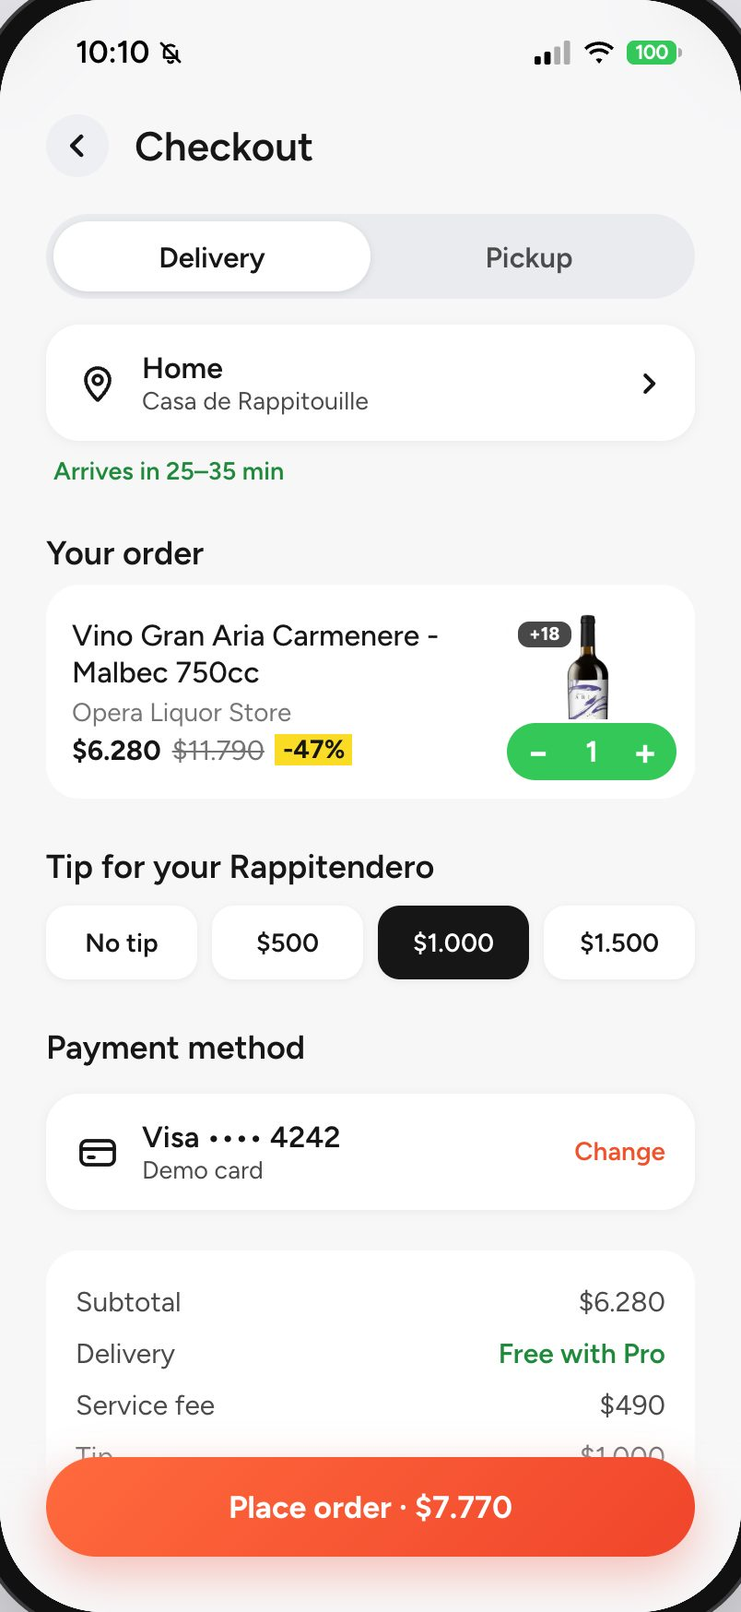
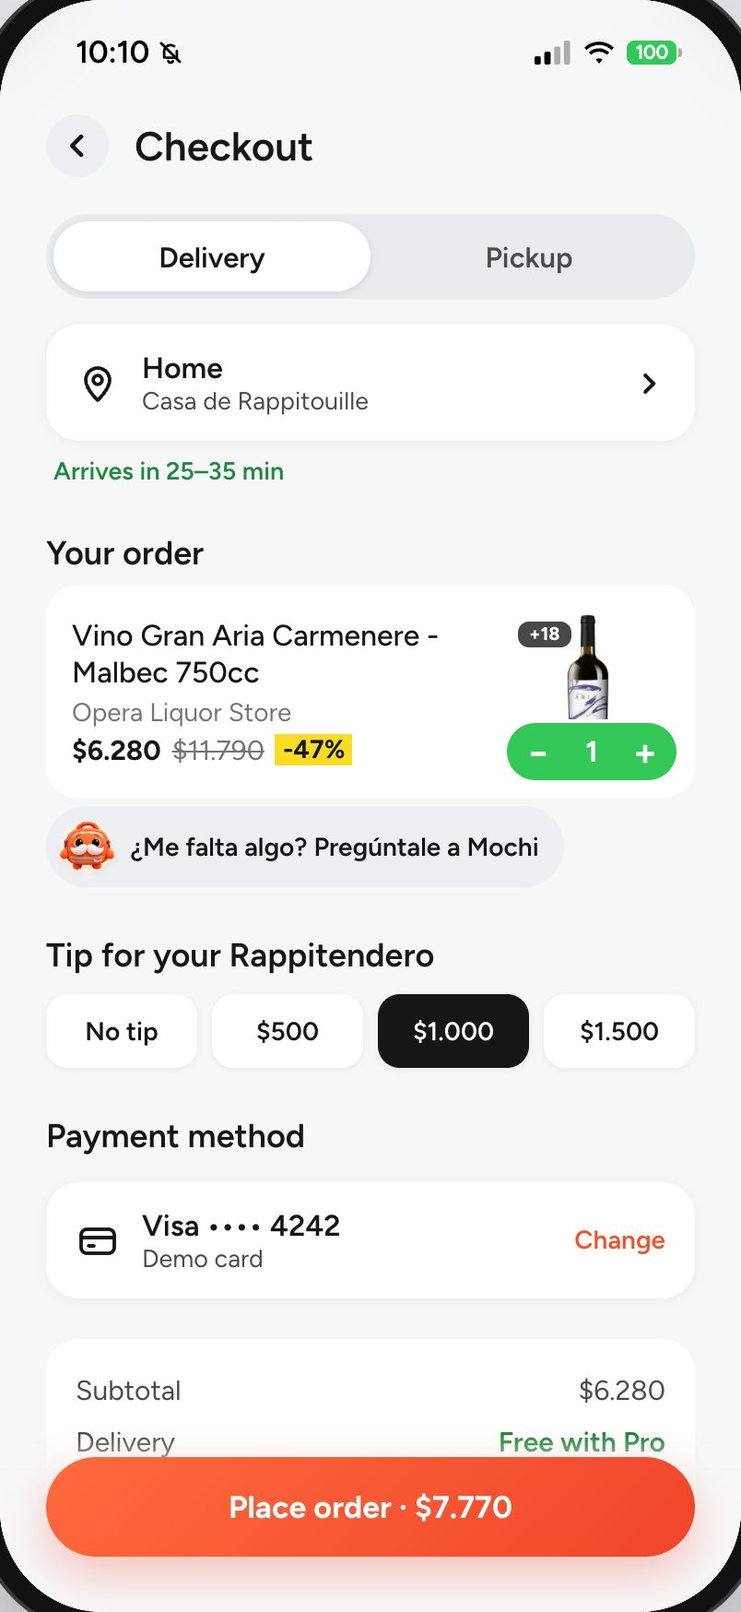
docs: el buscador y Mochi trabajan sobre el RAG
mvp-check suma el recorrido del kit de Mochi (busca «cerveza», pide el kit
«Carrete», lo agrega y paga) y exige en la base de prueba un pedido con líneas
sembradas y una suggestion_accepted con origen mochi-plan: 4 de 4. Docs al día
(el buscador y Mochi ya no son locales), fila en decisiones con los rulings de
la etapa y regla 6b de diseno-ia marcada como reemplazada. Capturas de
checkout y entregado regeneradas.

diff --git a/prototipo-app/README.md b/prototipo-app/README.md
@@ -1,6 +1,6 @@
 # Prototipo de la app
 
-Maqueta navegable de la app de Rappi Chile, hecha a partir de capturas y videos del iPhone, para **mostrar la propuesta del proyecto**. Desde fuera, lo que un usuario hace en un vertical no parece influir en lo que se le recomienda en los demás. Aquí el asistente **Mochi** aprende de lo que haces y recomienda **entre verticales** (cerveza → snacks, pizza → postre, pañales → farmacia).
+Maqueta navegable de la app de Rappi Chile, hecha a partir de capturas y videos del iPhone, para **mostrar la propuesta del proyecto**. Desde fuera, lo que un usuario hace en un vertical no parece influir en lo que se le recomienda en los demás. Aquí el asistente **Mochi** aprende de lo que haces y recomienda **entre verticales** (cerveza → snacks, pizza → gaseosas, pan → fiambres).
 
 > Imágenes, logos y marcas pertenecen a Rappi y a sus dueños; se usan solo como maqueta de demostración. Proyecto independiente, no afiliado ni respaldado por Rappi.
 
@@ -8,7 +8,7 @@ Hecho con Vite + React 19. **Necesita la API de [`rappi-ia`](../rappi-ia/)**: si
 
 ![Modo demo: la misma app en el prototipo final y en «Rappi hoy»](docs/screenshots/00-modo-demo.jpg)
 
-*Las capturas de Restaurants, Turbo, Deals, Favorites, Grocery, Liquor y de la compra (checkout, seguimiento y entregado) se tomaron el 10-10-2026 con el MVP corriendo y el catálogo real; las demás son anteriores al MVP conectado (modo local, sin API). `npm run screenshots` necesita el MVP corriendo y, como paga una compra, deja un pedido y sus eventos (`source = 'prototype'`) en la base.*
+*Las capturas de las pantallas se tomaron o se revisaron el 10-10-2026 con el MVP corriendo y el catálogo real (`npm run screenshots`); solo la ficha de Mochi, la de voz y la de «Con la API» con Bigotes son anteriores. `npm run screenshots` necesita el MVP corriendo y, como paga una compra, deja un pedido y sus eventos (`source = 'prototype'`) en la base.*
 
 ## Cómo correrlo
 
@@ -17,7 +17,7 @@ Requiere Node 22.22+ o 24.15+ (ver `.nvmrc` en la raíz). Como la app no abre si
 ```bash
 make mvp              # API :8000, app http://localhost:5174 y panel :5175; Ctrl-C detiene los tres
 make mvp LAN=1        # abre la API y la app a la red local, para el iPhone (misma red wifi o su hotspot)
-make mvp-check        # recorre la app con Chrome (Home, una compra en el Súper de prueba, API caída) contra un catálogo inventado, sin tocar la base real
+make mvp-check        # recorre la app con Chrome (Home, una compra en el Súper de prueba, el kit de Mochi, API caída) contra un catálogo inventado, sin tocar la base real
 ```
 
 Requisitos y qué hacer si falla algo: [docs/instalacion.md](../docs/instalacion.md#5-el-mvp). Para correr solo la app, con la API ya levantada por su cuenta (`cd rappi-ia && make serve`):
@@ -36,12 +36,12 @@ En el iPhone, desde Safari: **Compartir → Agregar a pantalla de inicio**. Se a
 La API (puerto 8000) carga los modelos antes de aceptar peticiones: `make mvp` espera a que responda y, si la app se abrió antes, «Reintentar» vuelve a probar. Con ella, Mochi:
 
 - da las **pantallas de catálogo** (ver «De dónde salen las pantallas»);
-- busca en el **catálogo real** con búsqueda híbrida por vertical, con precios vigentes;
+- busca en el **catálogo real** con búsqueda híbrida en todas las verticales (un grupo por vertical, la de la pantalla primero), con precios vigentes;
 - sugiere un complemento **de otra tienda** en un bloque aparte;
 - arma la fila **"Para ti"** del inicio con lo que aprendió de ti (productos reales de otro vertical, con aviso +18 si corresponde);
 - registra eventos seudónimos y pedidos (uno por vertical) en la API, para medir las sugerencias (mostradas, aceptadas y convertidas).
 
-Si la API se cae con la app ya abierta, las respuestas de Mochi todavía caen a las reglas locales y lo marcan con «Respuesta local» (se van en la etapa 3 del MVP). La API también ofrece `/chat/voice` (Whisper) y `/chat/photo` (CLIP), pero el prototipo actual no los usa: el prototipo final tiene un buscador, sin micrófono ni cámara.
+Si la API se cae con la app ya abierta, el chat de Mochi dice «Sin conexión» con «Reintentar» (reenvía la misma pregunta) y las ofertas que Mochi hace solo callan: ya no hay respuestas locales. La API también ofrece `/chat/voice` (Whisper) y `/chat/photo` (CLIP), pero el prototipo actual no los usa: el prototipo final tiene un buscador, sin micrófono ni cámara.
 
 <img src="docs/screenshots/40-bigotes-api.jpg" width="300" alt="Con la API: cervezas reales bajo $3.000 y snacks de otra tienda (captura anterior, con Bigotes y el chat escrito)">
 
@@ -61,7 +61,7 @@ Si la API se cae con la app ya abierta, las respuestas de Mochi todavía caen a 
 | `npm run screenshots` | Regenera las capturas de este README; necesita el MVP corriendo (`make mvp`) y usa el Chrome instalado |
 | `./scripts/make-icons.sh` | Regenera los íconos de pantalla de inicio desde `scripts/icon.svg` |
 
-Tests: 581 (Vitest, 10-10-2026). CI en GitHub Actions: lint, tests y build.
+Tests: 582 (Vitest, 10-10-2026). CI en GitHub Actions: lint, tests y build.
 
 **Accesibilidad:** el buscador con Mochi y las hojas inferiores se usan con teclado y VoiceOver (el foco entra al abrir, Escape cierra, Tab no se sale y el foco vuelve al cerrar), cada respuesta de Mochi se anuncia completa al lector de pantalla y las áreas táctiles miden al menos 40 px.
 
@@ -99,13 +99,13 @@ En el prototipo final, el **pasaporte Rappi** de la Home es el del juego de vert
 En el prototipo final no hay chat escrito, voz ni foto: la barra de la Home («¿Qué se te antoja hoy?») abre el buscador con Mochi, que reúne el buscador de siempre y lo que Mochi sabe de ti:
 
 - **Aprendiendo de ti:** arriba muestra lo que va aprendiendo («🍺 Cerveza · 🥃 Copete») y un botón **Olvidar** que lo borra, también en la API.
-- **Toca y te armo algo:** botones con ideas («¿Qué almuerzo hoy?», «Arma un carrete», «Algo dulce») que cambian según lo aprendido. Al tocar uno, Mochi responde con productos y tiendas; si abres una tienda desde ahí y vuelves, la búsqueda sigue donde estaba.
-- **El campo de búsqueda** encuentra tiendas y productos; debajo siguen «Recent searches» y «Popular stores», como en la app.
-- **Descubre con Mochi:** las verticales que todavía no exploraste («Exploraste 3 de 9»), cada una con una entrada para probarla.
+- **Toca y te armo algo:** botones con ideas fijas («¿Qué almuerzo hoy?», «Arma un carrete», «Algo dulce»). Al tocar uno, Mochi responde con productos y tiendas; si abres una tienda desde ahí y vuelves, la búsqueda sigue donde estaba.
+- **El campo de búsqueda** consulta la API y muestra los productos en un grupo por vertical, con la de la pantalla primero y «Ver más» en cada uno; sin resultados, Mochi dice dónde sí hay lo buscado. Debajo siguen «Recent searches» y «Popular stores», como en la app.
+- **Descubre con Mochi:** complementos de lo que le gusta a la persona, de `/recommendations`, cada uno con su vertical para abrirla.
 
 <img src="docs/screenshots/20-asistente.jpg" width="300" alt="Buscador con Mochi tras tocar «Arma un carrete»">
 
-*Buscador con Mochi tras tocar «Arma un carrete» (modo local).*
+*Buscador con Mochi tras tocar «Arma un carrete» (con el MVP corriendo).*
 
 La captura `docs/screenshots/21-voz.jpg` es de una versión anterior del prototipo (voz), que ya no existe.
 
@@ -153,7 +153,7 @@ También:
 
 <img src="docs/screenshots/28-loyalty-vinculado.jpg" width="240" alt="Loyalty con un programa vinculado">
 
-*Loyalty con un programa vinculado (modo local).*
+*Loyalty con un programa vinculado (con el MVP corriendo).*
 
 ## Pantallas replicadas de Rappi
 
@@ -185,7 +185,7 @@ Las pantallas de catálogo leen la API (`/catalog`, `src/api/catalog.js`) y la a
 - **Un producto muestra el precio y la tienda de su oferta vigente más barata entre las tiendas que se pueden abrir**, para que el precio y la tienda nunca se contradigan. Si ninguna tienda abrible lo vende, no ofrece «Ver tienda».
 - **Sin «Envío más barato»:** el costo de envío es $0 en el 91 % de la base, casi seguro «sin dato», así que la Home y Deals muestran «Mejor evaluados» y un envío de $0 no se presenta como gratis.
 - **Si la API falla** en una pantalla, esa pantalla muestra «Sin conexión» con «Reintentar» y el resto de la app sigue usable; una tienda que no está en la base muestra «Esta tienda no está en el catálogo».
-- **Sigue local hasta la etapa 3:** el buscador y el cerebro local de Mochi (`src/data/catalog.js`, con los datos transcritos de las capturas). Lo que abren y no está en la base muestra «Esta tienda no está en el catálogo».
+- **Nada local:** el buscador (`/search`), el chat (`/chat`), los kits y comentarios de Mochi (`/mochi/plans`, `/mochi/offer`), «Para ti» y «Descubre» (`/recommendations`) y lo aprendido (`/profile`) salen de la API; el cerebro local, los temas y el catálogo transcrito se borraron. Mochi no propone por su cuenta alcohol, farmacia, bebé ni salud: solo el kit de una ocasión elegida puede traer alcohol, con +18.
 
 ## Qué es real y qué es simulado
 
@@ -201,16 +201,16 @@ Las pantallas de catálogo leen la API (`/catalog`, `src/api/catalog.js`) y la a
 ```text
 src/
 ├── api/            Cliente de la API de rappi-ia (catálogo, chat, "Para ti", pedidos, eventos), con tiempo límite y errores tipados; fixtures/ guarda las respuestas de ejemplo que escribe el backend (`make contract` en rappi-ia)
-├── assistant/      Mochi local: temas, respuestas y recomendaciones (lógica pura, con tests)
+├── assistant/      El texto con que se le pregunta a Mochi por un producto (`¿Con qué acompaño…?`)
 ├── assets/         Recortes de las capturas
 ├── game/           Lógica del juego de verticales: tarjetas de conocimiento, desafíos, XP, niveles, pasaporte (lógica pura, con tests)
 ├── components/     Piezas compartidas; assistant/ tiene la mascota, la barra de la Home, el buscador con Mochi y Descubre
-├── data/           Catálogo transcrito de las capturas, solo para el buscador local y el cerebro local de Mochi (se va en la etapa 3); verticales.json del juego
+├── data/           Accesos y verticales de la Home; verticales.json del juego
 ├── hooks/          Navegación con historial, scroll
 ├── screens/        Una carpeta por pantalla (home, deals, vertical, checkout, tracking, game…)
 ├── state/          Carrito, perfil, pedidos, hoja de producto, modo demo, dirección… (varios persisten en localStorage)
 └── styles/         Tokens de diseño y estilos globales
 docs/screenshots/   Capturas de este README
 public/             Íconos y manifiesto para "Agregar a pantalla de inicio"
-scripts/            Íconos, capturas y el recorrido de `make mvp-check` (Home, compra y API caída)
+scripts/            Íconos, capturas y el recorrido de `make mvp-check` (Home, compra, kit de Mochi y API caída)
 ```

diff --git a/docs/demo.md b/docs/demo.md
@@ -25,18 +25,19 @@ En el prototipo final no se escribe en un chat: la barra de la Home abre el busc
 |---|---|---|---|
 | 1 | La barra de la Home y, en «Toca y te armo algo», **🍻 Arma un carrete** | Va directo a Licores sin preguntar: cervezas, licores y snacks, y las botillerías. Con la API, productos reales del catálogo, la sugerencia de otra vertical aparte y la fila **«También en»** (otras verticales con tiendas reales). | Entiende ocasiones, no solo productos. El mismo concepto existe en varias verticales: hoy cada una lo muestra por separado. |
 | 2 | **🍔 ¿Qué almuerzo hoy?** | Solo restaurantes que llegan rápido, sin mezclar con lo anterior. | La búsqueda no se mezcla: responde en su vertical. |
-| 3 | Arriba, «Aprendiendo de ti» ya muestra lo que Mochi notó, y los botones cambiaron: toca **🍺 Más cerveza** | Cervezas y, aparte, un bloque **«¿Te tinca sumar snacks? Porque llevas 🍺 cerveza»** con productos de otra vertical y su botón «Ver más en …». | Cada toque enseña: las ideas siguientes salen de lo que la persona ya pidió. Lo de otra vertical va aparte, una sola vez y con su razón a la vista. |
+| 3 | Arriba, «Aprendiendo de ti» muestra lo que Mochi notó de la persona (el perfil lo arma el servidor con sus eventos); **Olvidar** lo borra. | Los conceptos aprendidos, sin los sensibles. Tras **Olvidar**, Mochi lo confirma y la lista desaparece. | Cada toque enseña y la persona puede borrarlo: la memoria es transparente. |
 | 4 | Un producto de la respuesta → en la tienda, bajo **«Lo que elegiste»**, tócalo de nuevo. | Se abre la hoja del producto: cantidad, notas para la tienda y el total. **Agregar.** | Lo que Mochi recomienda se compra con el mismo flujo de la app, sin salir a otra pantalla. |
 | 4b | Volver con la flecha del buscador. | El buscador con Mochi se reabre donde estaba, con la misma respuesta. | Mochi no es otro canal: es parte del buscador, y se vuelve a él como a cualquier pantalla. |
 | 5 | Abre el carro, revisa y recarga la página. | El carro sigue ahí (se guarda en el navegador). **Checkout** → delivery o retiro, propina y desglose → pagar. | El pedido se confirma; el pago es un texto de ejemplo. |
 | 5b | **Account → Orders** (o «See all» en Recent orders) | **Mis pedidos**: el pedido recién hecho con su seguimiento en curso; al tocarlo, el mapa con Mochi recorriendo la ruta. | El seguimiento avanza solo, para la demo. |
-| 6 | De vuelta en el buscador con Mochi, baja hasta **Descubre con Mochi** y toca **Explorar** en una tarjeta. | «Exploraste N de 9» con las verticales sin probar; la tarjeta dice por qué (p. ej. «Te gusta 🍺 cerveza → 🍿 Snacks en Express») y abre esa vertical. | Lo aprendido también sirve para llevar a la persona a verticales donde nunca pidió. |
+| 6 | De vuelta en el buscador con Mochi, baja hasta **Descubre con Mochi** y toca una tarjeta. | La tarjeta dice por qué la propone (un complemento de lo que le gusta a la persona, de una vertical que quizá no abre) y abre esa vertical. | Lo aprendido también sirve para llevar a la persona a verticales donde nunca pidió. |
 | 6b | En la Home, el acceso **Turbo**. | Los pasillos de la tienda Turbo (pestañas arriba) con sus productos reales y «Ver más», que se agregan al carro. | Opcional: muestra que la compra rápida también vive en el prototipo. |
 | 6c | En la Home, un acceso de vertical (**Grocery**, **Liquor**…) → una tienda → **Ver más**. | Las tiendas reales de la vertical, la tienda con sus pasillos y precios vigentes, y la página siguiente de productos; en Licores, la marca **+18**. | Opcional: las pantallas de siempre, pero con el catálogo real. |
-| 7 | En el buscador con Mochi, escribe **chela**. | No hay resultados con esa palabra, pero Mochi dice «… pero en Licores sí» y **Ver en Licores** lleva ahí. | Un «sin resultados» no termina en un callejón sin salida: Mochi entiende el tema. |
-| 8 | En el checkout, toca **¿Me falta algo? Pregúntale a Mochi**. | Una sola sugerencia de otra vertical con su razón («Llevas 🍺 Cerveza → …»), **Agregar** y **Deshacer**. | Mochi sugiere cuando se le pide, en el momento en que más sirve. |
+| 7 | En el buscador con Mochi, escribe **chela**. | No hay resultados con esa palabra, pero Mochi dice dónde sí hay lo que se buscaba («… sí hay en Licores») y **Ver en Licores** lleva ahí. | Un «sin resultados» no termina en un callejón sin salida: Mochi entiende el tema. |
+| 7b | En el buscador con Mochi, escribe **cerveza**. | La API busca en todas las verticales y muestra **un grupo por vertical** (Licores, Express, Súper…), con «Ver más» en cada uno y la marca **+18**. Con el buscador abierto desde una vertical, esa va primero. | Un mismo producto se encuentra en varias verticales, sin elegir una antes. |
+| 8 | En el checkout, toca **¿Me falta algo? Pregúntale a Mochi**. | Una sola sugerencia de otra vertical con su razón («Antes de pagar: … Combina con lo que llevas»), **Agregar** y **Deshacer**. Nunca trae alcohol, farmacia, bebé ni salud: Mochi no los propone por su cuenta. | Mochi sugiere cuando se le pide, en el momento en que más sirve, y sin empujar lo delicado. |
 
-Con la API, los productos y precios de los pasos 1 a 3 salen del catálogo real y la sugerencia de otra vertical la decide Mochi en el servidor (con «Respuesta local» si la API no contestó). Las pantallas de catálogo (verticales, tiendas, restaurantes con su menú, Turbo, Ofertas, Favoritos y la Home) también leen el catálogo real. El buscador y los bloques de Mochi en la Home (kit, «Descubre») siguen con datos locales hasta la etapa 3: si una tarjeta de ahí abre «Esta tienda no está en el catálogo», es eso, no un error. Los botones **🍫 Algo dulce**, **🎁 Un regalo** y **🔥 Ofertas de hoy**, y el campo de búsqueda (tiendas y productos, con «Recent searches» y «Popular stores» como en la app) quedan para preguntas del público.
+Los productos y precios salen del catálogo real y la sugerencia de otra vertical la decide Mochi en el servidor; la búsqueda también es de la API. Las pantallas de catálogo (verticales, tiendas, restaurantes con su menú, Turbo, Ofertas, Favoritos y la Home) leen el mismo catálogo. No hay respaldo local: si la API se cae a mitad de la demo, el chat dice «Sin conexión» con **Reintentar**, que vuelve a mandar la misma pregunta, y las ofertas que Mochi hace solo callan. Los botones **🍫 Algo dulce**, **🎁 Un regalo** y **🔥 Ofertas de hoy**, y el campo de búsqueda (con «Recent searches» y «Popular stores» como en la app) quedan para preguntas del público.
 
 ### La Home con Mochi de cuerpo entero (2 minutos, opcional)
 
@@ -44,7 +45,7 @@ Es lo primero que se ve en el prototipo final. Para partir de cero: **↺ Repeti
 
 1. Mochi entra caminando a la Home y saluda. No sugiere productos ni mueve la Home: la Home es la de siempre, con el pasaporte de verticales justo bajo los accesos. **Qué decir:** Mochi es parte de la Home, no un canal aparte.
 1b. La primera vez, después del saludo, Mochi hace una guía de 3 pasos: el buscador, el pasaporte y «Jugar» (**Siguiente** / **Saltar**). No vuelve a aparecer; «↺ Repetir escena» la muestra de nuevo.
-2. Baja hasta «¿Qué plan tienes hoy?» y elige **Carrete**: un kit de tres verticales con un solo botón.
+2. Baja hasta «¿Qué plan tienes hoy?» (cinco ocasiones) y elige **Carrete**: un kit de varias verticales con un solo botón. Como la persona eligió la ocasión, el kit puede traer alcohol, con la marca **+18**; en lo que Mochi ofrece por su cuenta nunca hay alcohol, farmacia, bebé ni salud.
 3. Toca a Mochi: propone jugar una vertical que falta en el pasaporte. Con «Abrir» la sellas al entrar y, al volver, lo celebra.
 
 El pasaporte y su envío gratis son una idea para probar con usuarios, no una promoción real.

diff --git a/docs/decisiones.md b/docs/decisiones.md
@@ -142,6 +142,7 @@
 | 10-10-2026 | El **MVP exige la API**: sin ella la app muestra «Sin conexión con Mochi» con «Reintentar», sin reglas locales que contesten. Se levanta todo con `make mvp` (API :8000, app :5174, panel :5175) y `make mvp-check` lo recorre con Chrome contra un catálogo de prueba inventado (`rappi-ia seed-demo`, que solo siembra bases `_test`). Las reglas locales salen por etapas: el catálogo transcrito en la 2, el cerebro de Mochi en la 3 y el contenido y los desafíos del juego en la 4; hasta entonces siguen en el código, pero la app no abre sin la API. El **HTML suelto del escritorio deja de ser la demo**: para mostrar el MVP hay que correr `make mvp`. | Lo que se ve, lo que Mochi ofrece y lo que se pide tiene que salir de una sola fuente, la base, y lo que la persona hace tiene que volver a ella; con un respaldo local la demo funcionaría aunque la API estuviera caída y mostraría un catálogo distinto del real. Las reglas se van por etapas, con sus tests, para no romper el prototipo de una sola vez. Ver la [especificación](superpowers/specs/2026-10-10-mvp-integrado-design.md). |
 | 10-10-2026 | **`make mvp`, `make serve` y `make serve-lan` no migran la base real desde una rama sin fusionar**: con migraciones pendientes en `rappi` y un código que no está en `origin/main`, `rappi-ia check-migrations` se niega, las lista y propone probar en una copia (`createdb -T rappi rappi_staging`) o forzar con `MIGRATE=1`. Con otra base o sin pendientes migra sin preguntar. | `migrate` registra por nombre de archivo: una migración de rama que se aplica y después se edita nunca se vuelve a aplicar, y la base real queda con un esquema distinto del código sin que nada avise. |
 | 10-10-2026 | Las **pantallas de catálogo leen la base** (etapa 2 del MVP): las verticales, las tiendas con sus pasillos, los restaurantes con su menú, Turbo, Ofertas, Favoritos y las listas de la Home salen de la API (`/catalog`) y ya no de datos transcritos de capturas; de las capturas queda el diseño (títulos, categorías, banners). Seis reglas visibles: **(1)** un producto muestra el precio y la tienda de su oferta vigente más barata entre las tiendas que se pueden abrir (si ninguna lo vende, no ofrece «Ver tienda»), y una tienda solo se lista y se abre si tiene ofertas vigentes en un pasillo de primer nivel; **(2)** las ofertas excluyen los descuentos de más de 60 % (en la base real eran graneles: precio por kilo contra precio por unidad; salen 95 de 15.680); **(3)** no hay «Envío más barato»: el costo de envío es $0 en el 91 % de la base real y casi seguro significa «sin dato», así que la Home y Ofertas muestran «Mejor evaluados» y un $0 no se presenta como «Envío gratis»; **(4)** Mascotas sale de los accesos y de las pantallas, porque la base no tiene esa vertical; **(5)** la app no propone lo sensible: «Cerca de ti» y las ofertas sin vertical dejan fuera las tiendas que Rappi rotula Farmacia, Sex shop o Smoking shop (en la base real, un sex shop encabezaba «Cerca de ti» y Cruz Verde está listada entre los súper), y las ofertas, en cualquier vertical, no incluyen conceptos sensibles (medicamentos, bienestar sexual, tabaco…), como Bigotes; quien abre una vertical a propósito sí ve esas tiendas; **(6)** una tienda abre en su pasillo con más ofertas vigentes (el id no es un orden: Turbo abría en «Autopartes»), y el carrito identifica una oferta por producto y tienda, no por vertical, que cambia según la pantalla. El buscador y el cerebro local de Mochi siguen con datos locales hasta la etapa 3 (el catálogo transcrito se borra entonces, no en esta etapa); lo que abren y no está en la base muestra «Esta tienda no está en el catálogo». | Ninguna tienda ni producto que se pueda tocar puede ser falso, y precio y tienda no pueden contradecirse. Un descuento de −90 % en fruta a granel era un dato mal comparado, no una oferta, y el $0 de envío es un dato que falta: mostrarlos como rebaja o como envío gratis sería presentar un supuesto como evidencia. `/search` exige una vertical y la búsqueda en todas con «sin resultado» es parte de la etapa 3, así que el buscador no se puede conectar antes sin cambiar su comportamiento. `make mvp-check` ahora también compra en el Súper de prueba y comprueba que el pedido llegó a la base de prueba. Ver el [plan](superpowers/plans/2026-10-10-mvp-etapa-2-catalogo.md). |
+| 10-10-2026 | **El buscador y Mochi trabajan sobre el RAG** (etapa 3 del MVP). Lo que ve la persona: **(1)** Mochi no propone **por su cuenta** alcohol (ni la vertical Licores), farmacia, bebé, salud, conceptos sensibles, sex shops ni tabaquerías, aunque el carrito tenga cerveza o pañales; solo el kit de una ocasión que la persona eligió (Carrete, Asado, Regalo…) puede traer alcohol, siempre con +18. Esto **reemplaza la regla 6b de [`diseno-ia.md`](diseno-ia.md)**, que permitía el alcohol como complemento (cerveza con pizza); consecuencias aceptadas: pizza con gaseosas sale de Express y «playa» ya no sugiere protector solar, porque dermocosmética cae en el grupo salud. **(2)** La búsqueda de la app consulta la API en todas las verticales y muestra un grupo por vertical, con la de la pantalla primero: si detecta un concepto busca en sus verticales típicas (hasta 3) más la de la pantalla, y si no, en las 8; las tiendas no son resultados (las populares salen de `/catalog/home`). **(3)** El perfil es solo el del servidor (`/profile`, construido con eventos); sale el perfil local por temas, y «Para ti» y «Descubre con Mochi» salen de `/recommendations`. **(4)** La Home muestra los primeros 5 de los 13 planes que arma Mochi (13 chips eran demasiados). **(5)** Salen el cerebro local, los temas y el catálogo transcrito, y **no hay respaldo local**: sin la API el chat dice «Sin conexión» con «Reintentar» y las ofertas que Mochi hace solo (el comentario del carrito, la tarjeta del seguimiento) callan; lo que la persona toca, aunque tenga a Mochi en silencio, sí pide oferta. **(6)** Los momentos de Mochi reutilizan `suggestion_shown` y `suggestion_accepted` con `origen = 'mochi-<momento>'` (agregar el kit completo cuenta una aceptación por producto) y no tipos de evento nuevos. `make mvp-check` ahora también busca «cerveza», pide el kit «Carrete», lo agrega y paga, y exige en la base de prueba un pedido con líneas sembradas y al menos una aceptación con origen `mochi-plan`. | Lo que Mochi dice por iniciativa propia no puede empujar a una persona hacia alcohol, medicamentos o productos de bebé y salud: la especificación aprobada fue más estricta que la regla 6b, y el kit de una ocasión es algo que la persona pidió. Un solo perfil y un solo catálogo (la base) evitan que lo que ve la persona y lo que Mochi ofrece se contradigan. Reutilizar los eventos existentes hace que el panel, el embudo y el perfil los cuenten sin cambios, y un tipo nuevo sin registrar haría que el servidor rechazara el lote entero. Con el catálogo de prueba y sin modelos de embeddings, `make mvp-check` y una API liviana solo prueban la búsqueda léxica. |
 
 ## Datos simulados y panel
 

diff --git a/README.md b/README.md
@@ -52,8 +52,8 @@ El efecto real (frecuencia, venta cruzada, verticales nuevas por persona) solo s
 1. **Descarga (semanal).** `rappi refresh` lee las páginas públicas de rappi.cl y guarda catálogo, menús y precios con historial.
 2. **Postgres + pgvector.** El catálogo (capa 1) y `search_documents`, una partición por vertical.
 3. **IA offline.** Cada producto y plato recibe un concepto (capa 2), y los conceptos se enlazan con sus complementos. Una capa de datos suma atributos, medidas, marcas, un grafo de conocimiento y segmentos, y los expone en el esquema `capa` ([docs/capa-de-datos.md](docs/capa-de-datos.md)). Cada documento recibe un embedding de un modelo local multilingüe (e5), con un índice vectorial por vertical.
-4. **Consulta.** Búsqueda híbrida dentro de la vertical: por palabras y por significado, combinadas por posición (RRF) y reforzadas por el concepto pedido. Mochi arma la respuesta y la sugerencia cruzada.
-5. **Prototipo.** La API (FastAPI, puerto 8000) atiende al prototipo (5174). El prototipo no abre sin la API: muestra «Sin conexión con Mochi» (se levantan juntos con `make mvp`). Las verticales, las tiendas con sus pasillos, los restaurantes con su menú, Turbo, Ofertas, Favoritos y la Home leen el catálogo real de la API (`/catalog`); el buscador y el cerebro local de Mochi siguen con datos locales hasta la etapa 3 del MVP.
+4. **Consulta.** Búsqueda híbrida por vertical (la app consulta todas y muestra un grupo por vertical): por palabras y por significado, combinadas por posición (RRF) y reforzadas por el concepto pedido. Mochi arma la respuesta y la sugerencia cruzada.
+5. **Prototipo.** La API (FastAPI, puerto 8000) atiende al prototipo (5174). El prototipo no abre sin la API: muestra «Sin conexión con Mochi» (se levantan juntos con `make mvp`). Las verticales, las tiendas con sus pasillos, los restaurantes con su menú, Turbo, Ofertas, Favoritos y la Home leen el catálogo real de la API (`/catalog`); el buscador y Mochi (chat, kits, comentarios, «Para ti» y lo aprendido) también salen de la API, sin datos ni respuestas locales.
 
 **Mochi** en la API conversa por texto, voz (Whisper) o foto (CLIP); el prototipo usa solo el texto, como buscador. Reconoce servicios sin catálogo (un viaje lleva a **RappiTravel**, un envío o trámite a **RappiFavor**). Sin clave de API responde con plantillas; con clave, Claude solo redacta sobre lo que el código ya recuperó y verificó. Diseño completo: [docs/diseno-ia.md](docs/diseno-ia.md).
 
@@ -82,7 +82,7 @@ Cada cifra dice qué tipo de dato es: real, evaluación automática, estimación
 | Capa de datos | Atributos, marcas y grafo | 83 atributos sobre 79.617 ítems · 6.359 marcas · 23.534 productos canónicos · 32.105 aristas en 12 relaciones | Real, con reglas propias; atributos 92 % y marcas 97 a 99 % de precisión estimada | `make layers`, 06-10-2026 |
 | Búsqueda | nDCG@10 | híbrido 0,917 · sin refuerzo por concepto 0,860 · vectorial 0,849 · léxico 0,776 | Evaluación automática | [reporte del 06-10](docs/resultados/busqueda-2026-10-06.md) |
 | Búsqueda | «Sin resultado» | precisión 1,00 (0 falsas alarmas) · recall 0,71 (29 de 41) | Evaluación automática | [reporte del 30-09](docs/resultados/busqueda-2026-09-30.md) |
-| Calidad | Tests | scraper 144 · rappi-ia 1012 · prototipo 581 · panel 90 | Verificación local y CI | `make test` · `npm test` |
+| Calidad | Tests | scraper 144 · rappi-ia 1075 · prototipo 582 · panel 90 | Verificación local y CI | `make test` · `npm test` |
 
 ### Catálogo por vertical
 
@@ -127,7 +127,7 @@ Requisitos (el detalle, en [docs/instalacion.md](docs/instalacion.md)):
 ```bash
 make mvp          # desde la raíz del repositorio; Ctrl-C detiene los tres
 make mvp LAN=1    # abre la API y la app a la red local, para el iPhone (solo en una red de confianza)
-make mvp-check    # recorre la app con Chrome (la Home, una compra en el Súper de prueba y la caída de la API) contra un catálogo inventado, sin tocar la base real
+make mvp-check    # recorre la app con Chrome (la Home, una compra en el Súper de prueba, el kit de Mochi y la caída de la API) contra un catálogo inventado, sin tocar la base real
 ```
 
 `make mvp` revisa las dependencias, los puertos y la base (`rappi-ia doctor`, solo lectura), aplica las migraciones pendientes (no las de una rama sin fusionar: `MIGRATE=1` lo fuerza, ver [docs/instalacion.md](docs/instalacion.md#5-el-mvp)), arranca los tres con sus registros prefijados y avisa cuando responden. La API tarda en estar lista porque carga los modelos. No descarga nada de rappi.cl.
@@ -147,7 +147,7 @@ La API lee la base `rappi`, que se restaura desde un respaldo (o se descarga) y 
 ## Límites
 
 - **Cobertura parcial en tiendas:** hasta 24 productos por sub-pasillo y una sucursal por marca o formato. No se listan las tiendas sin ofertas vigentes en un pasillo de primer nivel, ni Mascotas (la base no tiene esa vertical).
-- **Buscador local hasta la etapa 3:** el buscador del prototipo y los bloques de Mochi en la Home (kit, «Descubre») aún usan datos locales; lo que abren y no está en la base muestra «Esta tienda no está en el catálogo».
+- **Mochi no ofrece por su cuenta alcohol, farmacia, bebé ni salud:** solo el kit de una ocasión que la persona elige puede traer alcohol, con +18. Consecuencia aceptada: hay menos complementos (por ejemplo, «playa» ya no sugiere protector solar). Ver [docs/decisiones.md](docs/decisiones.md).
 - **Turbo sin actualizar:** sus tiendas ya no aparecen como Turbo en los listados públicos que recorre el scraper; sus precios son del 27-09.
 - **Evaluación automática:** no hay juicio humano, y el refuerzo por concepto favorece al híbrido.
 - **«Sin resultado»:** detecta 29 de 41 negativas; el reporte explica las demás.

diff --git a/docs/diseno-ia.md b/docs/diseno-ia.md
@@ -164,7 +164,7 @@ Mochi es el nombre que ve el usuario (antes, Bigotes). En el código el agente c
 5. **Aclara, no adivina.** Si la intención es ambigua entre verticales, hace una sola pregunta con opciones.
 6. **Categorías sensibles y restringidas.**
    - a. **Sensibles:** los conceptos marcados `sensitive` (medicamentos, salud sexual, bienestar sexual, tabaco y vapeo). **Restringidos por edad:** alcohol, tabaco, vapeo y adultos. Un producto es restringido si `is_alcoholic` o `age_restricted` es verdadero, o si su concepto es `age_restricted`.
-   - b. **Nunca por iniciativa propia.** Mochi no sugiere un producto sensible, ni como sugerencia cruzada, recompra, reactivación o alerta. Las aristas hacia esos conceptos se ignoran. El alcohol se puede sugerir como complemento (cerveza con pizza), siempre con +18.
+   - b. **Nunca por iniciativa propia.** Mochi no sugiere un producto sensible, ni como sugerencia cruzada, recompra, reactivación o alerta. Las aristas hacia esos conceptos se ignoran. ~~El alcohol se puede sugerir como complemento (cerveza con pizza), siempre con +18.~~ **Reemplazada el 10-10-2026** (etapa 3 del MVP, ver [decisiones.md](decisiones.md)): Mochi tampoco propone por su cuenta alcohol (ni la vertical Licores), farmacia, bebé ni salud, aunque el carrito tenga cerveza o pañales. Solo el kit de una ocasión que la persona eligió puede traer alcohol, siempre con +18.
    - c. **Fuera del perfil.** Los conceptos sensibles no entran al perfil, no se muestran en "Aprendiendo de ti" y no sirven de origen ni de razón de una sugerencia.
    - d. **Síntomas.** Quien habla de un síntoma («tengo fiebre», «me siento mal») va a Farmacia con remedios **sin receta** cuyo texto nombra el síntoma (búsqueda por palabras), o con analgésicos si nada lo nombra; nunca un medicamento con receta (`requires_medical_prescription` de Rappi). Sin venta cruzada ni «También en». Si la farmacia no tiene nada, se muestra lo de cuidarse (sopas, jugos, té). No hay aviso aparte: cortaba la compra.
    - e. **Productos +18.** Siempre llevan el recordatorio. El tabaco y el vapeo solo se muestran si se piden por nombre, porque en Chile su publicidad está prohibida (Ley 20.105).
@@ -173,9 +173,9 @@ Mochi es el nombre que ve el usuario (antes, Bigotes). En el código el agente c
    - Sin clave de API, Mochi responde con plantillas y las mismas reglas. Con `ANTHROPIC_API_KEY`, Claude redacta el texto en JSON estricto sobre lo recuperado.
    - Entender la consulta: hoy son reglas + embeddings. Jev (el modelo "System One" de TypeSafe: juicios tipados con probabilidad y baja latencia) es una opción futura para esta etapa; no está implementado.
 
-**Contrato de respuesta.** Amplía el de `prototipo-app/src/assistant/brain.js` (`text`, `products`, `stores`, `reason`, `actions` y `tags`) sin romperlo:
+**Contrato de respuesta** (`text`, `products`, `stores`, `reason`, `actions` y `tags`; el cerebro local `brain.js` que lo originó ya no existe: la app solo lee la API):
 - `reason` sigue en el primer nivel;
-- `products` tiene la forma de `prototipo-app/src/data/catalog.js` (`id`, `name`, `price`, `img`, `store`…);
+- `products` tiene la forma que el cliente muestra (`id`, `name`, `price`, `img`, `store`…; el catálogo transcrito `data/catalog.js` ya no existe);
 - `suggestion` agrega la sugerencia cruzada, que el cliente muestra como "De Licores" (su vertical) con un botón "Ver más en Licores";
 - `also_in` (opcional) lista hasta 3 verticales más donde hay lo pedido, con dos tiendas cada una (nombre y logo); el cliente la muestra como "También en". No es una sugerencia: no cuenta para el máximo de una por respuesta;
 - `vertical` usa los códigos del backend. El cliente los traduce a los ids del prototipo: supermercado → grocery, licores → liquor, farmacia → pharmacy, mall → retail, conveniencia/turbo → express, chocolateria → chocolates.
@@ -283,7 +283,7 @@ Notas del modelo:
 | 3. Agente | Mochi en el backend (texto, foto, voz; el prototipo actual solo usa el texto) | Tests de reglas de conducta y escenarios | Hecha |
 | 4. API | FastAPI | Tests de endpoints | Hecha |
 | 5. Eventos y analítica | Tablas, generador simulado y consultas | Tests con datos controlados | Hecha |
-| 6. Prototipo conectado | Cliente API con respaldo local, eventos y bugs corregidos | Vitest y prueba en el navegador | Hecha |
+| 6. Prototipo conectado | Cliente API con respaldo local (salió en la etapa 3 del MVP: hoy la app exige la API), eventos y bugs corregidos | Vitest y prueba en el navegador | Hecha |
 | 7. Panel empresa | `dashboard-empresa/` (para más adelante) | Vitest y chequeo visual | Hecha |
 | 8. Cierre | CI (4 jobs), docs y corrida completa post-refresh | CI en verde | Hecha (30-09-2026) |
 

diff --git a/docs/instalacion.md b/docs/instalacion.md
@@ -112,7 +112,7 @@ Ctrl-C detiene los tres; si uno se cae solo, detiene el resto. No descarga nada 
 - ¿La API está en otro puerto o equipo? Crea `prototipo-app/.env.local` con `VITE_API_URL=http://localhost:8001` y reinicia la app.
 - ¿La API se cayó? Mira el registro `[api]`: con Postgres caído responde 503.
 
-**`make mvp-check`** recorre la app con Chrome (Playwright, usa el Google Chrome instalado) contra un catálogo de prueba **inventado**, sin tocar la base `rappi`. Siembra `rappi_ia_test` (`rappi-ia seed-demo`, que se niega con cualquier base que no termine en `_test`), levanta una API liviana en :8010 y la app en :5184, comprueba que la Home abre conectada, que una compra (Home → Grocery → la primera tienda → agregar un producto → carrito → pagar) llega a la API y queda en `rappi_ia_test` como un pedido `prototype` con productos sembrados (solo lectura) y que, al detener la API, aparece «Sin conexión con Mochi». Mientras la API está en marcha, también falla ante un error de la página o de la consola o una respuesta 4xx/5xx (solo se ignoran las imágenes de prueba, que no existen). Termina con «MVP check: 3 de 3 bien» y no deja nada escuchando. **Borra y vuelve a sembrar `rappi_ia_test`:** no lo corras junto con `make test` de `rappi-ia/`, que usa la misma base.
+**`make mvp-check`** recorre la app con Chrome (Playwright, usa el Google Chrome instalado) contra un catálogo de prueba **inventado**, sin tocar la base `rappi`. Siembra `rappi_ia_test` (`rappi-ia seed-demo`, que se niega con cualquier base que no termine en `_test`), levanta una API liviana en :8010 y la app en :5184, comprueba que la Home abre conectada, que una compra (Home → Grocery → la primera tienda → agregar un producto → carrito → pagar) llega a la API y queda en `rappi_ia_test` como un pedido `prototype` con productos sembrados (solo lectura), que buscar «cerveza» en el buscador con Mochi muestra un grupo por vertical y que pedir el kit «Carrete» de la Home, agregarlo y pagar deja un pedido con productos sembrados y al menos una `suggestion_accepted` con origen `mochi-plan` en `app_events`, y que, al detener la API, aparece «Sin conexión con Mochi». Mientras la API está en marcha, también falla ante un error de la página o de la consola o una respuesta 4xx/5xx (solo se ignoran las imágenes de prueba, que no existen). Termina con «MVP check: 4 de 4 bien» y no deja nada escuchando. **Borra y vuelve a sembrar `rappi_ia_test`:** no lo corras junto con `make test` de `rappi-ia/`, que usa la misma base.
 
 También: `make contract` en `rappi-ia/` reescribe las respuestas de ejemplo de la API que usa la app (`prototipo-app/src/api/fixtures/`; el CI falla si quedan desactualizadas), y `npm run screenshots` en `prototipo-app/` necesita el MVP corriendo y, como paga una compra, deja un pedido y sus eventos (`source = 'prototype'`) en la base real.
 
